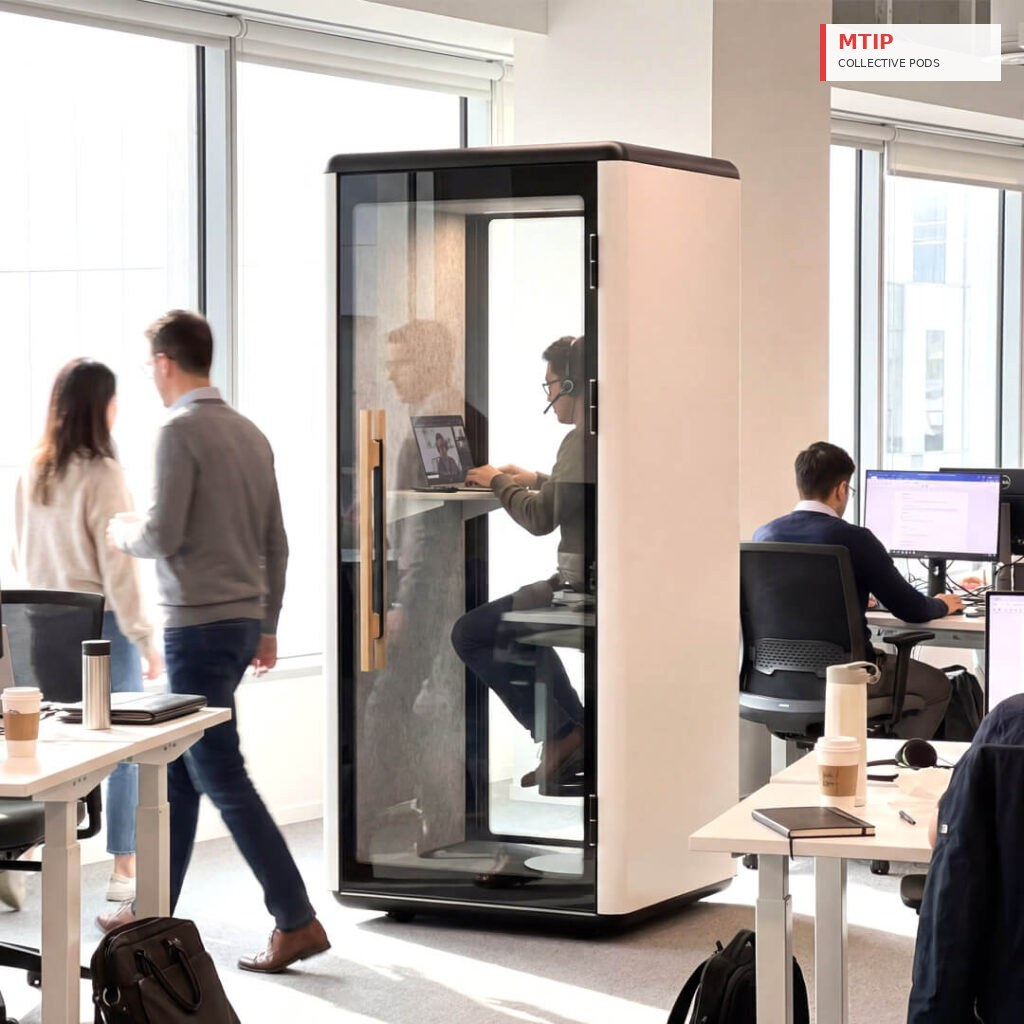
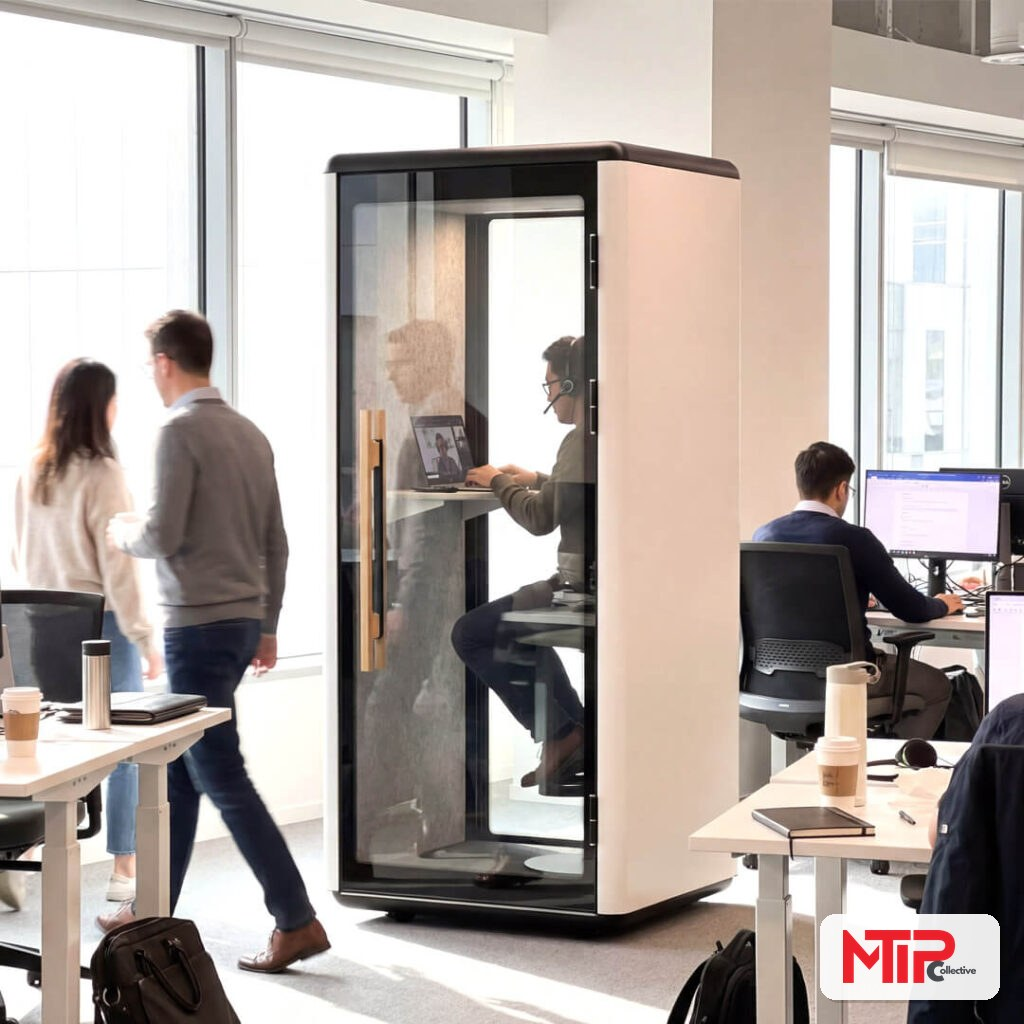
Sprint 1+2: kill the bugs + sharpen the pitch
VISUAL BUGS FIXED:
- Hero photo crop: 4:5 portrait → 16:10 landscape, uses real
  showroom photo (hero-landscape.jpg from Master's Quad shot)
- Suite section image: now uses real-quad-showroom.jpg cropped
- Tier card images: replaced dark-bg renders with REAL differentiated
  photos (Studio in lounge, Duo in office, Quad with people, Suite
  showroom). Each card now tells a different story.
- Lineup-comparison: pods isolated on white background with relative
  scale, subtle floor line. No more dark-bg-on-white amateur look.
- Home-offices use case: BROKEN edge-styles wireframe replaced with
  real Studio in lounge with yellow accents (usecase-home.jpg)
- Trust strip: max-width clamp for proper centering at all viewports
- Carousel: overscroll-behavior-x:contain prevents scroll hijack;
  slide width 480px for more visible at once
- All 27 carousel images rebaked with CONSISTENT MTIP logo PNG
  watermark in bottom-right (no more generic font fakes)

COPY + BRAND:
- Cut 'Class A 1-person executive office runs ,500-2,500/month'
  from hero (still in compare/Suite — keeping ONE strategic placement)
- Hero subhead reframed: 'Sound-insulated, plug-and-play executive
  offices. Delivered fully assembled in 90 days.'
- Hero eyebrow now: 'Built for solo executives · real estate
  operators · podcast creators · coworking owners'
- Suite headline: 'It's not a pod. It's your office.'
- Suite body: tightened, removed redundant pricing repetition
[…]

Changed region(s): [[0.7812, 0.875, 1.0, 1.0], [0.7812, 0.0, 1.0, 0.0938]]

diff --git a/index.html b/index.html
@@ -161,7 +161,7 @@ p{color:var(--text-mid)}
 .section-header h2+p{margin-top:24px}
 .nav{position:sticky;top:0;z-index:100;background:rgba(255,255,255,0.92);backdrop-filter:saturate(180%) blur(20px);-webkit-backdrop-filter:saturate(180%) blur(20px);border-bottom:1px solid rgba(0,0,0,0.06)}
 .nav-inner{max-width:1380px;margin:0 auto;display:flex;align-items:center;justify-content:space-between;padding:16px 32px}
-.nav-logo img{height:36px;width:auto}
+.nav-logo img{height:48px;width:auto}@media(max-width:640px){.nav-logo img{height:38px}}
 .nav-tabs{display:flex;gap:36px}
 .nav-tabs a{font-size:0.95rem;font-weight:500;color:var(--text-mid);transition:color 0.2s}
 .nav-tabs a:hover,.nav-tabs a.current{color:var(--red)}
@@ -178,20 +178,20 @@ p{color:var(--text-mid)}
 .section-dark .btn-outline{color:white;border-color:rgba(255,255,255,0.3)}
 .section-dark .btn-outline:hover{border-color:white;background:rgba(255,255,255,0.05)}
 .hero{padding:100px 0 120px;position:relative;overflow:hidden}
-.hero-grid{display:grid;grid-template-columns:1.05fr 1fr;gap:80px;align-items:center}
+.hero-grid{display:grid;grid-template-columns:1fr 1.1fr;gap:64px;align-items:center}
 @media(max-width:1024px){.hero-grid{grid-template-columns:1fr;gap:56px}}
 .hero h1{margin:28px 0 32px}
 .hero h1 .red-em{background:linear-gradient(135deg,var(--red) 0%,var(--red-dark) 100%);-webkit-background-clip:text;background-clip:text;-webkit-text-fill-color:transparent;font-style:italic;font-weight:900}
 .hero-sub{font-size:clamp(1.125rem,1.5vw,1.4rem);color:var(--text-mid);margin-bottom:40px;max-width:540px}
 .hero-sub strong{color:var(--text);font-weight:700}
 .hero-ctas{display:flex;gap:12px;flex-wrap:wrap}
-.hero-video-wrap{position:relative;border-radius:24px;overflow:hidden;background:var(--black);aspect-ratio:4/5;box-shadow:var(--shadow-lg);max-height:720px}
+.hero-video-wrap{position:relative;border-radius:20px;overflow:hidden;background:var(--black);aspect-ratio:16/10;box-shadow:var(--shadow-lg)}
 .hero-video-wrap video{width:100%;height:100%;object-fit:cover}
 .video-toggle{position:absolute;bottom:24px;right:24px;width:48px;height:48px;background:rgba(255,255,255,0.92);backdrop-filter:blur(12px);border:none;border-radius:50%;display:flex;align-items:center;justify-content:center;cursor:pointer;z-index:2;transition:all 0.2s;color:var(--text)}
 .video-toggle:hover{background:var(--red);color:white}
 .video-toggle i{width:20px;height:20px}
 .trust-strip{padding:28px 0;border-top:1px solid var(--border);border-bottom:1px solid var(--border);background:var(--bg-soft)}
-.trust-inner{display:flex;flex-wrap:wrap;justify-content:center;align-items:center;gap:16px 40px;font-size:0.92rem;font-weight:500;color:var(--text-mid)}
+.trust-inner{display:flex;flex-wrap:wrap;justify-content:center;align-items:center;gap:14px 36px;font-size:0.88rem;font-weight:500;color:var(--text-mid);max-width:1200px;margin:0 auto}
 .trust-inner span{display:inline-flex;align-items:center;gap:8px}
 .trust-inner i{width:16px;height:16px;color:var(--red)}
 .trust-inner .sep{width:4px;height:4px;background:var(--silver-2);border-radius:50%}
@@ -201,7 +201,7 @@ p{color:var(--text-mid)}
 @media(max-width:1024px){.suite-grid{grid-template-columns:1fr;gap:56px}}
 .flagship-pill{display:inline-flex;align-items:center;gap:8px;padding:8px 16px;background:white;border:1px solid var(--border);color:var(--red);border-radius:999px;font-size:0.78rem;font-weight:700;letter-spacing:0.15em;text-transform:uppercase;margin-bottom:24px;box-shadow:var(--shadow-sm)}
 .flagship-pill i{width:14px;height:14px}
-.suite-image{position:relative;border-radius:24px;overflow:hidden;aspect-ratio:4/5;box-shadow:var(--shadow-lg)}
+.suite-image{position:relative;border-radius:20px;overflow:hidden;aspect-ratio:4/5;box-shadow:var(--shadow-lg)}
 .suite-image img{width:100%;height:100%;object-fit:cover}
 .suite-image-tag{position:absolute;bottom:24px;left:24px;padding:12px 20px;background:rgba(0,0,0,0.7);backdrop-filter:blur(12px);border-radius:12px;color:white;font-size:0.9rem;font-weight:600}
 .suite-image-tag span{color:var(--red-light);font-weight:700}
@@ -245,7 +245,7 @@ p{color:var(--text-mid)}
 .tier-card:hover{transform:translateY(-6px);box-shadow:var(--shadow-lg);border-color:var(--text)}
 .tier-card.featured{border-color:var(--red);background:linear-gradient(180deg,#FFF8F8 0%,white 30%);box-shadow:0 16px 40px rgba(229,59,59,0.12)}
 .tier-card.featured::before{content:'FLAGSHIP';position:absolute;top:16px;right:16px;background:var(--red);color:white;padding:6px 12px;border-radius:999px;font-size:0.65rem;font-weight:800;letter-spacing:0.18em;z-index:2}
-.tier-img{background:var(--bg-section);aspect-ratio:4/5;display:flex;align-items:center;justify-content:center;position:relative;overflow:hidden}
+.tier-img{background:var(--bg-section);aspect-ratio:4/5;display:flex;align-items:center;justify-content:center;position:relative;overflow:hidden}.tier-img img{transition:transform 0.5s}.tier-card:hover .tier-img img{transform:scale(1.04)}
 .tier-img img{width:100%;height:100%;object-fit:cover}
 .tier-body{padding:28px 24px 24px;flex-grow:1;display:flex;flex-direction:column}
 .tier-rank{font-size:0.7rem;font-weight:800;letter-spacing:0.18em;text-transform:uppercase;color:var(--text-mid);margin-bottom:6px}
@@ -323,7 +323,7 @@ p{color:var(--text-mid)}
 .edge-card h4{margin-bottom:8px}
 .fullbleed{position:relative;overflow:hidden;height:80vh;min-height:600px;max-height:800px}
 .fullbleed img{width:100%;height:100%;object-fit:cover}
-.fullbleed-overlay{position:absolute;inset:0;background:linear-gradient(to right,rgba(0,0,0,0.7) 0%,rgba(0,0,0,0.3) 50%,transparent 100%);display:flex;align-items:center}
+.fullbleed-overlay{position:absolute;inset:0;background:linear-gradient(to right,rgba(0,0,0,0.85) 0%,rgba(0,0,0,0.55) 30%,rgba(0,0,0,0.2) 60%,transparent 100%);display:flex;align-items:center}
 .fullbleed-content{max-width:1380px;margin:0 auto;padding:0 32px;width:100%;color:white}
 .fullbleed-content>div{max-width:600px}
 .fullbleed h2{color:white;margin-bottom:24px}
@@ -402,7 +402,7 @@ p{color:var(--text-mid)}
 .final-cta .btn-outline:hover{background:rgba(255,255,255,0.1);border-color:white}
 footer{padding:64px 0 40px;background:var(--black);color:rgba(255,255,255,0.6);text-align:center}
 .footer-logo img{height:48px;margin:0 auto 24px}
-.footer-tagline{font-size:0.95rem;margin-bottom:36px}
+.footer-tagline{font-size:0.95rem;margin-bottom:14px}.footer-meta{font-size:0.85rem;color:rgba(255,255,255,0.65);margin-bottom:32px}
 .footer-links{display:flex;gap:28px;justify-content:center;flex-wrap:wrap;margin-bottom:36px;font-size:0.9rem}
 .footer-links a{color:rgba(255,255,255,0.7);transition:color 0.2s}
 .footer-links a:hover{color:white}
@@ -413,11 +413,11 @@ footer{padding:64px 0 40px;background:var(--black);color:rgba(255,255,255,0.6);t
 .carousel-section{padding:140px 0;background:var(--white);overflow:hidden}
 @media(max-width:768px){.carousel-section{padding:80px 0}}
 .carousel-wrap{position:relative;margin-top:48px}
-.carousel-track{display:flex;gap:20px;overflow-x:auto;scroll-snap-type:x mandatory;scroll-behavior:smooth;padding:8px 32px 32px;-webkit-overflow-scrolling:touch}
+.carousel-track{display:flex;gap:20px;overflow-x:auto;overflow-y:hidden;scroll-snap-type:x mandatory;scroll-behavior:smooth;padding:8px 32px 32px;-webkit-overflow-scrolling:touch;overscroll-behavior-x:contain;overscroll-behavior-y:auto}
 .carousel-track::-webkit-scrollbar{height:6px}
 .carousel-track::-webkit-scrollbar-track{background:var(--bg-section);border-radius:3px}
 .carousel-track::-webkit-scrollbar-thumb{background:var(--red);border-radius:3px}
-.carousel-slide{flex:0 0 auto;width:560px;aspect-ratio:16/11;border-radius:20px;overflow:hidden;position:relative;scroll-snap-align:center;cursor:pointer;background:var(--bg-section);box-shadow:var(--shadow-sm)}
+.carousel-slide{flex:0 0 auto;width:480px;aspect-ratio:16/10;border-radius:16px;overflow:hidden;position:relative;scroll-snap-align:start;cursor:pointer;background:var(--bg-section);box-shadow:var(--shadow-sm)}
 @media(max-width:768px){.carousel-slide{width:88vw}}
 .carousel-slide img{width:100%;height:100%;object-fit:cover;transition:transform 0.4s}
 .carousel-slide:hover img{transform:scale(1.04)}
@@ -475,16 +475,29 @@ footer{padding:64px 0 40px;background:var(--black);color:rgba(255,255,255,0.6);t
 .carousel-arrow-overlay.prev{left:24px}
 .carousel-arrow-overlay.next{right:24px}
 @media(max-width:640px){.carousel-arrow-overlay{display:none}}
+
+.founder-card{display:grid;grid-template-columns:auto 1fr;gap:40px;align-items:center;background:white;border:1px solid var(--border);border-radius:24px;padding:48px;box-shadow:var(--shadow-md)}
+@media(max-width:768px){.founder-card{grid-template-columns:1fr;text-align:center;padding:32px}}
+.founder-photo{width:120px;height:120px;border-radius:50%;background:linear-gradient(135deg,#E53B3B 0%,#B82E2E 100%);display:flex;align-items:center;justify-content:center;flex-shrink:0;box-shadow:0 8px 24px rgba(229,59,59,0.25)}
+@media(max-width:768px){.founder-photo{margin:0 auto}}
+.founder-mark{font-family:'Inter',sans-serif;font-size:3.5rem;font-weight:900;color:white;letter-spacing:-0.04em;line-height:1}
+.founder-content{}
+.founder-quote{font-size:1.18rem;line-height:1.55;color:var(--text);margin:12px 0 24px;font-weight:500;letter-spacing:-0.011em;font-style:italic}
+.founder-attr{display:flex;flex-direction:column;gap:2px}
+.founder-attr strong{font-size:1rem;color:var(--text);font-weight:700}
+.founder-attr span{font-size:0.88rem;color:var(--text-mid)}
+
+.btn-red:hover{background:linear-gradient(135deg,#E53B3B 0%,#DEE1E6 50%,#FFFFFF 70%,#E53B3B 100%);color:#1A1D24}
 </style>
 </head>
 <body>
 <nav class="nav"><div class="nav-inner"><a href="#top" class="nav-logo"><img src="assets/images/mtip-logo.png" alt="MTIP Collective"></a><div class="nav-tabs"><a href="#suite">The Suite</a><a href="#lineup">Lineup</a><a href="#compare">Compare</a><a href="#features">Features</a><a href="#order">Order</a></div><a href="#order" class="btn btn-red">Reserve a Pod</a></div></nav>
 
-<section class="hero" id="top"><div class="container"><div class="hero-grid"><div><div class="eyebrow">A new MTIP Collective offering · Pods</div><h1>Stop renting an office.<br><span class="red-em">Own one.</span></h1><p class="hero-sub">A Class A 1-person executive office runs <strong>$1,500–$2,500/month</strong>. The Suite by MTIP Collective is a one-time <strong>$6,997.</strong> Pays for itself in under five months. Stays yours forever.</p><div class="hero-ctas"><a href="#suite" class="btn btn-red btn-lg">Meet The Suite <i data-lucide="arrow-right"></i></a><a href="#lineup" class="btn btn-outline btn-lg">See All Four Pods</a></div></div><div class="hero-video-wrap"><video id="heroVideo" autoplay muted loop playsinline poster="assets/images/hero-lifestyle-1.jpg"><source src="assets/video/walkthrough.mp4" type="video/mp4"></video><button class="video-toggle" id="videoToggle" aria-label="Toggle sound"><i data-lucide="volume-x" id="videoIcon"></i></button></div></div></div></section>
+<section class="hero" id="top"><div class="container"><div class="hero-grid"><div><div class="eyebrow">Built for solo executives · real estate operators · podcast creators · coworking owners</div><h1>Stop renting an office.<br><span class="red-em">Own one.</span></h1><p class="hero-sub">Sound-insulated, plug-and-play executive offices. <strong>Delivered fully assembled in 90 days.</strong> The Suite replaces a Class A 1-person office for a one-time <strong>$6,997</strong>.</p><div class="hero-ctas"><a href="#suite" class="btn btn-red btn-lg">Meet The Suite <i data-lucide="arrow-right"></i></a><a href="#lineup" class="btn btn-outline btn-lg">See All Four Pods</a></div></div><div class="hero-video-wrap"><video id="heroVideo" autoplay muted loop playsinline poster="assets/images/hero-landscape.jpg"><source src="assets/video/walkthrough.mp4" type="video/mp4"></video><button class="video-toggle" id="videoToggle" aria-label="Toggle sound"><i data-lucide="volume-x" id="videoIcon"></i></button></div></div></div></section>
 
 <div class="trust-strip"><div class="container"><div class="trust-inner"><span><i data-lucide="volume-x"></i> ~30 dB sound insulation</span><span class="sep"></span><span><i data-lucide="truck"></i> 90-day delivery</span><span class="sep"></span><span><i data-lucide="package-check"></i> Fully assembled</span><span class="sep"></span><span><i data-lucide="shield-check"></i> 1-year warranty</span><span class="sep"></span><span><i data-lucide="credit-card"></i> $0 down · 12-mo plans</span><span class="sep"></span><span><i data-lucide="map-pin"></i> Florida showroom</span></div></div></div>
 
-<section class="suite-hero section" id="suite"><div class="container"><div class="suite-grid"><div><div class="flagship-pill"><i data-lucide="star"></i> The Flagship</div><h2>The Suite.<br>Your private executive office.<br><span class="text-red">Delivered.</span></h2><p class="lead" style="margin-top:32px">A 49-square-foot, sound-insulated, fully assembled executive office. <strong style="color:var(--text)">Seats one in luxury.</strong> Or six in a meeting. Or your podcast crew. Or your investor pitch.</p><p class="lead" style="margin-top:20px">Compare it to a real 1-person office in any decent commercial building: <strong style="color:var(--text)">$1,500–$2,500 a month</strong>, plus deposits, plus build-out, plus a 5-year lease.</p><p class="lead" style="margin-top:20px">The Suite is <strong style="color:var(--red)">a one-time $6,997.</strong></p>
+<section class="suite-hero section" id="suite"><div class="container"><div class="suite-grid"><div><div class="flagship-pill"><i data-lucide="star"></i> The Flagship</div><h2>The Suite.<br>It's not a pod.<br><span class="text-red">It's your office.</span></h2><p class="lead" style="margin-top:32px">A 49-square-foot, sound-insulated, fully assembled executive office. <strong style="color:var(--text)">Seats one in luxury.</strong> Or six in a meeting. Or your podcast crew. Or your investor pitch.</p><p class="lead" style="margin-top:20px">Compare it to a real 1-person office in any decent commercial building: <strong style="color:var(--text)">$1,500–$2,500 a month</strong>, plus deposits, plus build-out, plus a 5-year lease.</p><p class="lead" style="margin-top:20px">The Suite is <strong style="color:var(--red)">a one-time $6,997.</strong></p>
 
 <div class="roi-table"><table><thead><tr><th>If you're paying</th><th>A year of that</th><th>The Suite pays back</th></tr></thead><tbody><tr><td>$1,500/mo office</td><td>$18,000</td><td class="payback">in 4.7 months</td></tr><tr><td>$2,000/mo office</td><td>$24,000</td><td class="payback">in 3.5 months</td></tr><tr><td>$2,500/mo office</td><td>$30,000</td><td class="payback">in 2.8 months</td></tr></tbody></table></div>
 
@@ -494,19 +507,38 @@ footer{padding:64px 0 40px;background:var(--black);color:rgba(255,255,255,0.6);t
 
 <div class="suite-price-card"><div class="suite-price-row"><span class="big">$6,997</span><span class="once">paid once · delivered turnkey</span></div><p class="install-note">Or <strong>$699/mo</strong> for 12 months · <strong>$0 down</strong> · 0 credit gymnastics</p><div style="display:flex;gap:12px;flex-wrap:wrap"><a href="#order" class="btn btn-red">Reserve The Suite <i data-lucide="arrow-right"></i></a><a href="#showroom" class="btn btn-outline">See It In Person</a></div></div>
 </div>
-<div class="suite-image"><img src="assets/images/hero-lifestyle-1.jpg" alt="MTIP Collective Suite — interior"><div class="suite-image-tag">The Suite · 6-person · <span>Flagship</span></div></div>
+<div class="suite-image"><img src="assets/images/real-quad-showroom.jpg" alt="MTIP Collective Suite — flagship showroom" style="object-position:center 30%"><div class="suite-image-tag">The Suite · 6-person · <span>Flagship</span></div></div>
 </div></div></section>
 
-<section class="section section-soft" id="lineup"><div class="container">
+
+<section class="section section-soft" id="founder" style="padding:96px 0">
+  <div class="container-tight" style="max-width:920px">
+    <div class="founder-card">
+      <div class="founder-photo">
+        <div class="founder-mark">M</div>
+      </div>
+      <div class="founder-content">
+        <div class="eyebrow">From the operator</div>
+        <p class="founder-quote">"I priced a single Framery 2Q for my coworking floor. The quote came back at $26,400. I laughed, hung up, and called my factory direct. We're now shipping the same acoustic spec — better materials, larger interior, fully assembled — at half the price. Not because we cut corners. Because we cut the SoHo showroom rent and the white-glove markup. Real product, factory-direct, operator-to-operator."</p>
+        <div class="founder-attr">
+          <strong>Master Makabi</strong>
+          <span>Founder · MTIP Collective · Florida</span>
+        </div>
+      </div>
+    </div>
+  </div>
+</section>
+
+<section class="section section" id="lineup"><div class="container">
 <div class="section-header center"><div class="eyebrow">The Lineup</div><h2>Four sizes.<br>One standard of quality.</h2><p class="lead" style="margin-left:auto;margin-right:auto">Same aluminum frame. Same ISO-certified acoustic walls. Same 6mm tempered glass. Same motion-sensor lighting. Same fresh-air system. Only the size and seating change.</p></div>
 
 <div class="tier-toggle-wrap"><div class="tier-toggle" id="tierToggle"><button class="active" data-mode="cash">Pay Once</button><button data-mode="install">12-Month · $0 Down</button></div></div>
 
 <div class="tier-grid">
-<div class="tier-card"><div class="tier-img"><img src="assets/images/pod-studio.jpg" alt="The Studio"></div><div class="tier-body"><div class="tier-rank">Good · Solo</div><h3>The Studio</h3><p class="tier-tagline">A private studio in 10 sq ft. For recording, AI command, focus, sales floor.</p><ul class="tier-specs"><li><i data-lucide="users"></i><span><strong>1 person</strong></span></li><li><i data-lucide="ruler"></i><span><strong>~10 sq ft</strong> (0.96 m²)</span></li><li><i data-lucide="volume-x"></i><span><strong>28 ± 3 dB</strong></span></li><li><i data-lucide="zap"></i><span>24W · USB + USB-C</span></li></ul><div class="tier-price-block"><div class="tier-price-amount" data-cash="$2,997" data-install="$299">$2,997</div><div class="tier-price-suffix" data-cash="paid once" data-install="/mo · 12 mo · $0 down">paid once</div></div><a href="#order" class="btn btn-outline">Reserve</a></div></div>
-<div class="tier-card"><div class="tier-img"><img src="assets/images/pod-duo.jpg" alt="The Duo"></div><div class="tier-body"><div class="tier-rank">Better · 1-Person Office</div><h3>The Duo</h3><p class="tier-tagline">The smart 1-person office. Or take real 2-person calls. Either works.</p><ul class="tier-specs"><li><i data-lucide="users"></i><span><strong>1–2 people</strong></span></li><li><i data-lucide="ruler"></i><span><strong>~23 sq ft</strong> (2.1 m²)</span></li><li><i data-lucide="volume-x"></i><span><strong>30 ± 3 dB</strong> ISO certified</span></li><li><i data-lucide="zap"></i><span>30W · USB + USB-C</span></li></ul><div class="tier-price-block"><div class="tier-price-amount" data-cash="$4,497" data-install="$449">$4,497</div><div class="tier-price-suffix" data-cash="paid once" data-install="/mo · 12 mo · $0 down">paid once</div></div><a href="#order" class="btn btn-outline">Reserve</a></div></div>
-<div class="tier-card"><div class="tier-img"><img src="assets/images/pod-quad.jpg" alt="The Quad"></div><div class="tier-body"><div class="tier-rank">Best · Meeting Room</div><h3>The Quad</h3><p class="tier-tagline">A real meeting room. Without the build-out. Workshops, sales rooms, pitches.</p><ul class="tier-specs"><li><i data-lucide="users"></i><span><strong>4 people</strong></span></li><li><i data-lucide="ruler"></i><span><strong>~31 sq ft</strong> (2.9 m²)</span></li><li><i data-lucide="volume-x"></i><span><strong>30 ± 3 dB</strong> ISO certified</span></li><li><i data-lucide="zap"></i><span>54W · USB-C + Qi</span></li></ul><div class="tier-price-block"><div class="tier-price-amount" data-cash="$5,497" data-install="$549">$5,497</div><div class="tier-price-suffix" data-cash="paid once" data-install="/mo · 12 mo · $0 down">paid once</div></div><a href="#order" class="btn btn-outline">Reserve</a></div></div>
-<div class="tier-card featured"><div class="tier-img"><img src="assets/images/pod-suite.jpg" alt="The Suite"></div><div class="tier-body"><div class="tier-rank">Super-Best · Replace Your Office</div><h3>The Suite</h3><p class="tier-tagline">Replace your $1,500–$2,500/mo executive office. Pays back in under 5 months.</p><ul class="tier-specs"><li><i data-lucide="users"></i><span><strong>1–6 people</strong></span></li><li><i data-lucide="ruler"></i><span><strong>~49 sq ft</strong> (4.5 m²)</span></li><li><i data-lucide="volume-x"></i><span><strong>30 ± 3 dB</strong> ISO certified</span></li><li><i data-lucide="zap"></i><span>90W · USB-C + Qi</span></li></ul><div class="tier-price-block"><div class="tier-price-amount" data-cash="$6,997" data-install="$699">$6,997</div><div class="tier-price-suffix" data-cash="paid once" data-install="/mo · 12 mo · $0 down">paid once</div></div><a href="#order" class="btn btn-red">Reserve The Suite</a></div></div>
+<div class="tier-card"><div class="tier-img"><img src="assets/images/tier-studio.jpg" alt="The Studio — solo private workspace"></div><div class="tier-body"><div class="tier-rank">Good · Solo</div><h3>The Studio</h3><p class="tier-tagline">A private studio in 10 sq ft. For recording, AI command, focus, sales floor.</p><ul class="tier-specs"><li><i data-lucide="users"></i><span><strong>1 person</strong></span></li><li><i data-lucide="ruler"></i><span><strong>~10 sq ft</strong> (0.96 m²)</span></li><li><i data-lucide="volume-x"></i><span><strong>28 ± 3 dB</strong></span></li><li><i data-lucide="zap"></i><span>24W · USB + USB-C</span></li></ul><div class="tier-price-block"><div class="tier-price-amount" data-cash="$2,997" data-install="$299">$2,997</div><div class="tier-price-suffix" data-cash="paid once" data-install="/mo · 12 mo · $0 down">paid once</div></div><a href="#order" class="btn btn-outline">Reserve</a></div></div>
+<div class="tier-card"><div class="tier-img"><img src="assets/images/tier-duo.jpg" alt="The Duo — 2-person pod in office"></div><div class="tier-body"><div class="tier-rank">Better · 1-Person Office</div><h3>The Duo</h3><p class="tier-tagline">The smart 1-person office. Or take real 2-person calls. Either works.</p><ul class="tier-specs"><li><i data-lucide="users"></i><span><strong>1–2 people</strong></span></li><li><i data-lucide="ruler"></i><span><strong>~23 sq ft</strong> (2.1 m²)</span></li><li><i data-lucide="volume-x"></i><span><strong>30 ± 3 dB</strong> ISO certified</span></li><li><i data-lucide="zap"></i><span>30W · USB + USB-C</span></li></ul><div class="tier-price-block"><div class="tier-price-amount" data-cash="$4,497" data-install="$449">$4,497</div><div class="tier-price-suffix" data-cash="paid once" data-install="/mo · 12 mo · $0 down">paid once</div></div><a href="#order" class="btn btn-outline">Reserve</a></div></div>
+<div class="tier-card"><div class="tier-img"><img src="assets/images/tier-quad.jpg" alt="The Quad — 4-person meeting room"></div><div class="tier-body"><div class="tier-rank">Best · Meeting Room</div><h3>The Quad</h3><p class="tier-tagline">A real meeting room. Without the build-out. Workshops, sales rooms, pitches.</p><ul class="tier-specs"><li><i data-lucide="users"></i><span><strong>4 people</strong></span></li><li><i data-lucide="ruler"></i><span><strong>~31 sq ft</strong> (2.9 m²)</span></li><li><i data-lucide="volume-x"></i><span><strong>30 ± 3 dB</strong> ISO certified</span></li><li><i data-lucide="zap"></i><span>54W · USB-C + Qi</span></li></ul><div class="tier-price-block"><div class="tier-price-amount" data-cash="$5,497" data-install="$549">$5,497</div><div class="tier-price-suffix" data-cash="paid once" data-install="/mo · 12 mo · $0 down">paid once</div></div><a href="#order" class="btn btn-outline">Reserve</a></div></div>
+<div class="tier-card featured"><div class="tier-img"><img src="assets/images/tier-suite.jpg" alt="The Suite — flagship showroom"></div><div class="tier-body"><div class="tier-rank">Super-Best · Replace Your Office</div><h3>The Suite</h3><p class="tier-tagline">Replace your $1,500–$2,500/mo executive office. Pays back in under 5 months.</p><ul class="tier-specs"><li><i data-lucide="users"></i><span><strong>1–6 people</strong></span></li><li><i data-lucide="ruler"></i><span><strong>~49 sq ft</strong> (4.5 m²)</span></li><li><i data-lucide="volume-x"></i><span><strong>30 ± 3 dB</strong> ISO certified</span></li><li><i data-lucide="zap"></i><span>90W · USB-C + Qi</span></li></ul><div class="tier-price-block"><div class="tier-price-amount" data-cash="$6,997" data-install="$699">$6,997</div><div class="tier-price-suffix" data-cash="paid once" data-install="/mo · 12 mo · $0 down">paid once</div></div><a href="#order" class="btn btn-red">Reserve The Suite</a></div></div>
 </div>
 
 <div style="text-align:center;margin-top:48px"><p style="color:var(--text-mid)">Need <strong style="color:var(--text)">accessibility configuration</strong>? The Accessible Pod is engineered for users with reduced mobility — wide entry, auto-opening door, multi-modal access. <strong style="color:var(--text)">Pricing on request.</strong></p><a href="mailto:mtip@hey.com?subject=Accessible%20Pod%20Inquiry" class="btn btn-ghost" style="margin-top:12px">Talk to us about accessibility <i data-lucide="arrow-right"></i></a></div>
@@ -646,14 +678,14 @@ footer{padding:64px 0 40px;background:var(--black);color:rgba(255,255,255,0.6);t
 </div>
 </section>
 
-<section class="fullbleed" id="showroom"><img src="assets/images/showroom-2.jpg" alt="MTIP Collective Pods in a real office"><div class="fullbleed-overlay"><div class="fullbleed-content"><div><div class="eyebrow" style="color:var(--red-light)">Real product · real showroom · in Florida</div><h2>This is one of ours.<br>Sit in it.</h2><p>Pictures don't tell you what 30 dB feels like. Visit MTIP Collective in Florida and step inside. Take a real call. Listen to the difference. Then sign.</p><a href="mailto:mtip@hey.com?subject=Showroom%20Visit" class="btn btn-red btn-lg">Book a Showroom Visit <i data-lucide="arrow-right"></i></a></div></div></div></section>
+<section class="fullbleed" id="showroom"><img src="assets/images/showroom-2.jpg" alt="MTIP Collective Pods in a real office"><div class="fullbleed-overlay"><div class="fullbleed-content"><div><div class="eyebrow" style="color:var(--red-light)">Real product · real showroom · in Florida</div><h2>This is one of ours.<br>Sit in it.</h2><p>Pictures don't tell you what 30 dB feels like. Visit MTIP Collective in Florida and step inside. Take a real call. Listen to the difference. Then sign.</p><a href="https://calendly.com/mtip-collective/pods-walkthrough" target="_blank" rel="noopener" class="btn btn-red btn-lg">Book a Showroom Visit <i data-lucide="arrow-right"></i></a></div></div></div></section>
 
 <section class="section"><div class="container">
 <div class="section-header center"><div class="eyebrow">In the wild</div><h2>Drop one anywhere.<br>It works.</h2><p class="lead" style="margin-left:auto;margin-right:auto">Coworking floors. Hotel lobbies. Airport terminals. Libraries. Warehouses. Home offices. The pod doesn't care where it lands.</p></div>
 <div class="usecase-grid">
 <div class="usecase-card"><img src="assets/images/usecase-airport.jpg" alt="Pods in airport terminal"><div class="usecase-card-content"><h4>Airport Terminals</h4><p>A quiet corner in a busy terminal — for travelers who need to take the call before boarding.</p></div></div>
 <div class="usecase-card"><img src="assets/images/showroom-1.jpg" alt="Pods in office space"><div class="usecase-card-content"><h4>Coworking Floors</h4><p>Drop-in privacy at scale. No build-out.</p></div></div>
-<div class="usecase-card"><img src="assets/images/edge-styles.jpg" alt="Pods at home"><div class="usecase-card-content"><h4>Home Offices</h4><p>The room your spouse will thank you for.</p></div></div>
+<div class="usecase-card"><img src="assets/images/usecase-home.jpg" alt="MTIP Pod in home office setting"><div class="usecase-card-content"><h4>Home Offices</h4><p>The room your spouse will thank you for.</p></div></div>
 </div>
 </div></section>
 
@@ -692,7 +724,7 @@ footer{padding:64px 0 40px;background:var(--black);color:rgba(255,255,255,0.6);t
     <p>Pricing questions, custom configurations, bulk orders, or you just want a 10-minute walk-through call before you commit. Pick the channel.</p>
   </div>
   <div class="actions">
-    <a href="mailto:mtip@hey.com?subject=Book%20a%20call%20-%20MTIP%20Pods" class="btn btn-red">Book a call <i data-lucide="calendar"></i></a>
+    <a href="https://calendly.com/mtip-collective/pods-15min" target="_blank" rel="noopener" class="btn btn-red">Book a 15-min call <i data-lucide="calendar"></i></a>
     <a href="mailto:mtip@hey.com?subject=Question%20about%20MTIP%20Pods" class="btn btn-outline" style="border-color:rgba(255,255,255,0.3);color:white">Email the team <i data-lucide="mail"></i></a>
   </div>
 </div>
@@ -726,7 +758,7 @@ footer{padding:64px 0 40px;background:var(--black);color:rgba(255,255,255,0.6);t
 
 <section class="final-cta"><div class="container"><h2>Build your office in 90 days.<br>Not 9 months.</h2><p>You don't need a contractor. You don't need a permit. You don't need a 5-year lease. You need a pod.</p><div class="final-cta-buttons"><a href="mailto:mtip@hey.com?subject=Reserve%20The%20Suite" class="btn btn-red btn-lg">Reserve The Suite — $6,997 <i data-lucide="arrow-right"></i></a><a href="#lineup" class="btn btn-outline btn-lg">See All Four Pods</a></div></div></section>
 
-<footer><div class="container"><div class="footer-logo"><img src="assets/images/mtip-logo-white.png" alt="MTIP Collective"></div><div class="footer-tagline">Private. Professional. Plug-and-Play Workspaces.</div><div class="footer-links"><a href="https://collective.mtip.ai/">MTIP Collective Coworking</a><a href="#suite">The Suite</a><a href="#lineup">Lineup</a><a href="#order">Order</a><a href="mailto:mtip@hey.com">Contact</a></div><div class="footer-divider"></div><div class="footer-credit">© 2026 MTIP Collective. All rights reserved. · Powered by <a href="https://ai-loren.com">LOREN AI</a></div></div></footer>
+<footer><div class="container"><div class="footer-logo"><img src="assets/images/mtip-logo-white.png" alt="MTIP Collective"></div><div class="footer-tagline">Private. Professional. Plug-and-Play Workspaces.</div><div class="footer-meta"><span><i data-lucide="map-pin" style="width:14px;height:14px;display:inline;vertical-align:-2px"></i> 16137 Biscayne Blvd · North Miami, FL</span><span style="margin:0 12px">·</span><span><i data-lucide="mail" style="width:14px;height:14px;display:inline;vertical-align:-2px"></i> <a href="mailto:mtip@hey.com" style="color:rgba(255,255,255,0.85)">mtip@hey.com</a></span></div><div class="footer-links"><a href="https://collective.mtip.ai/">MTIP Collective Coworking</a><a href="#suite">The Suite</a><a href="#lineup">Lineup</a><a href="#order">Order</a><a href="mailto:mtip@hey.com">Contact</a></div><div class="footer-divider"></div><div class="footer-credit">© 2026 MTIP Collective. All rights reserved. · Powered by <a href="https://ai-loren.com">LOREN AI</a></div></div></footer>
 
 <script>
 lucide.createIcons();
